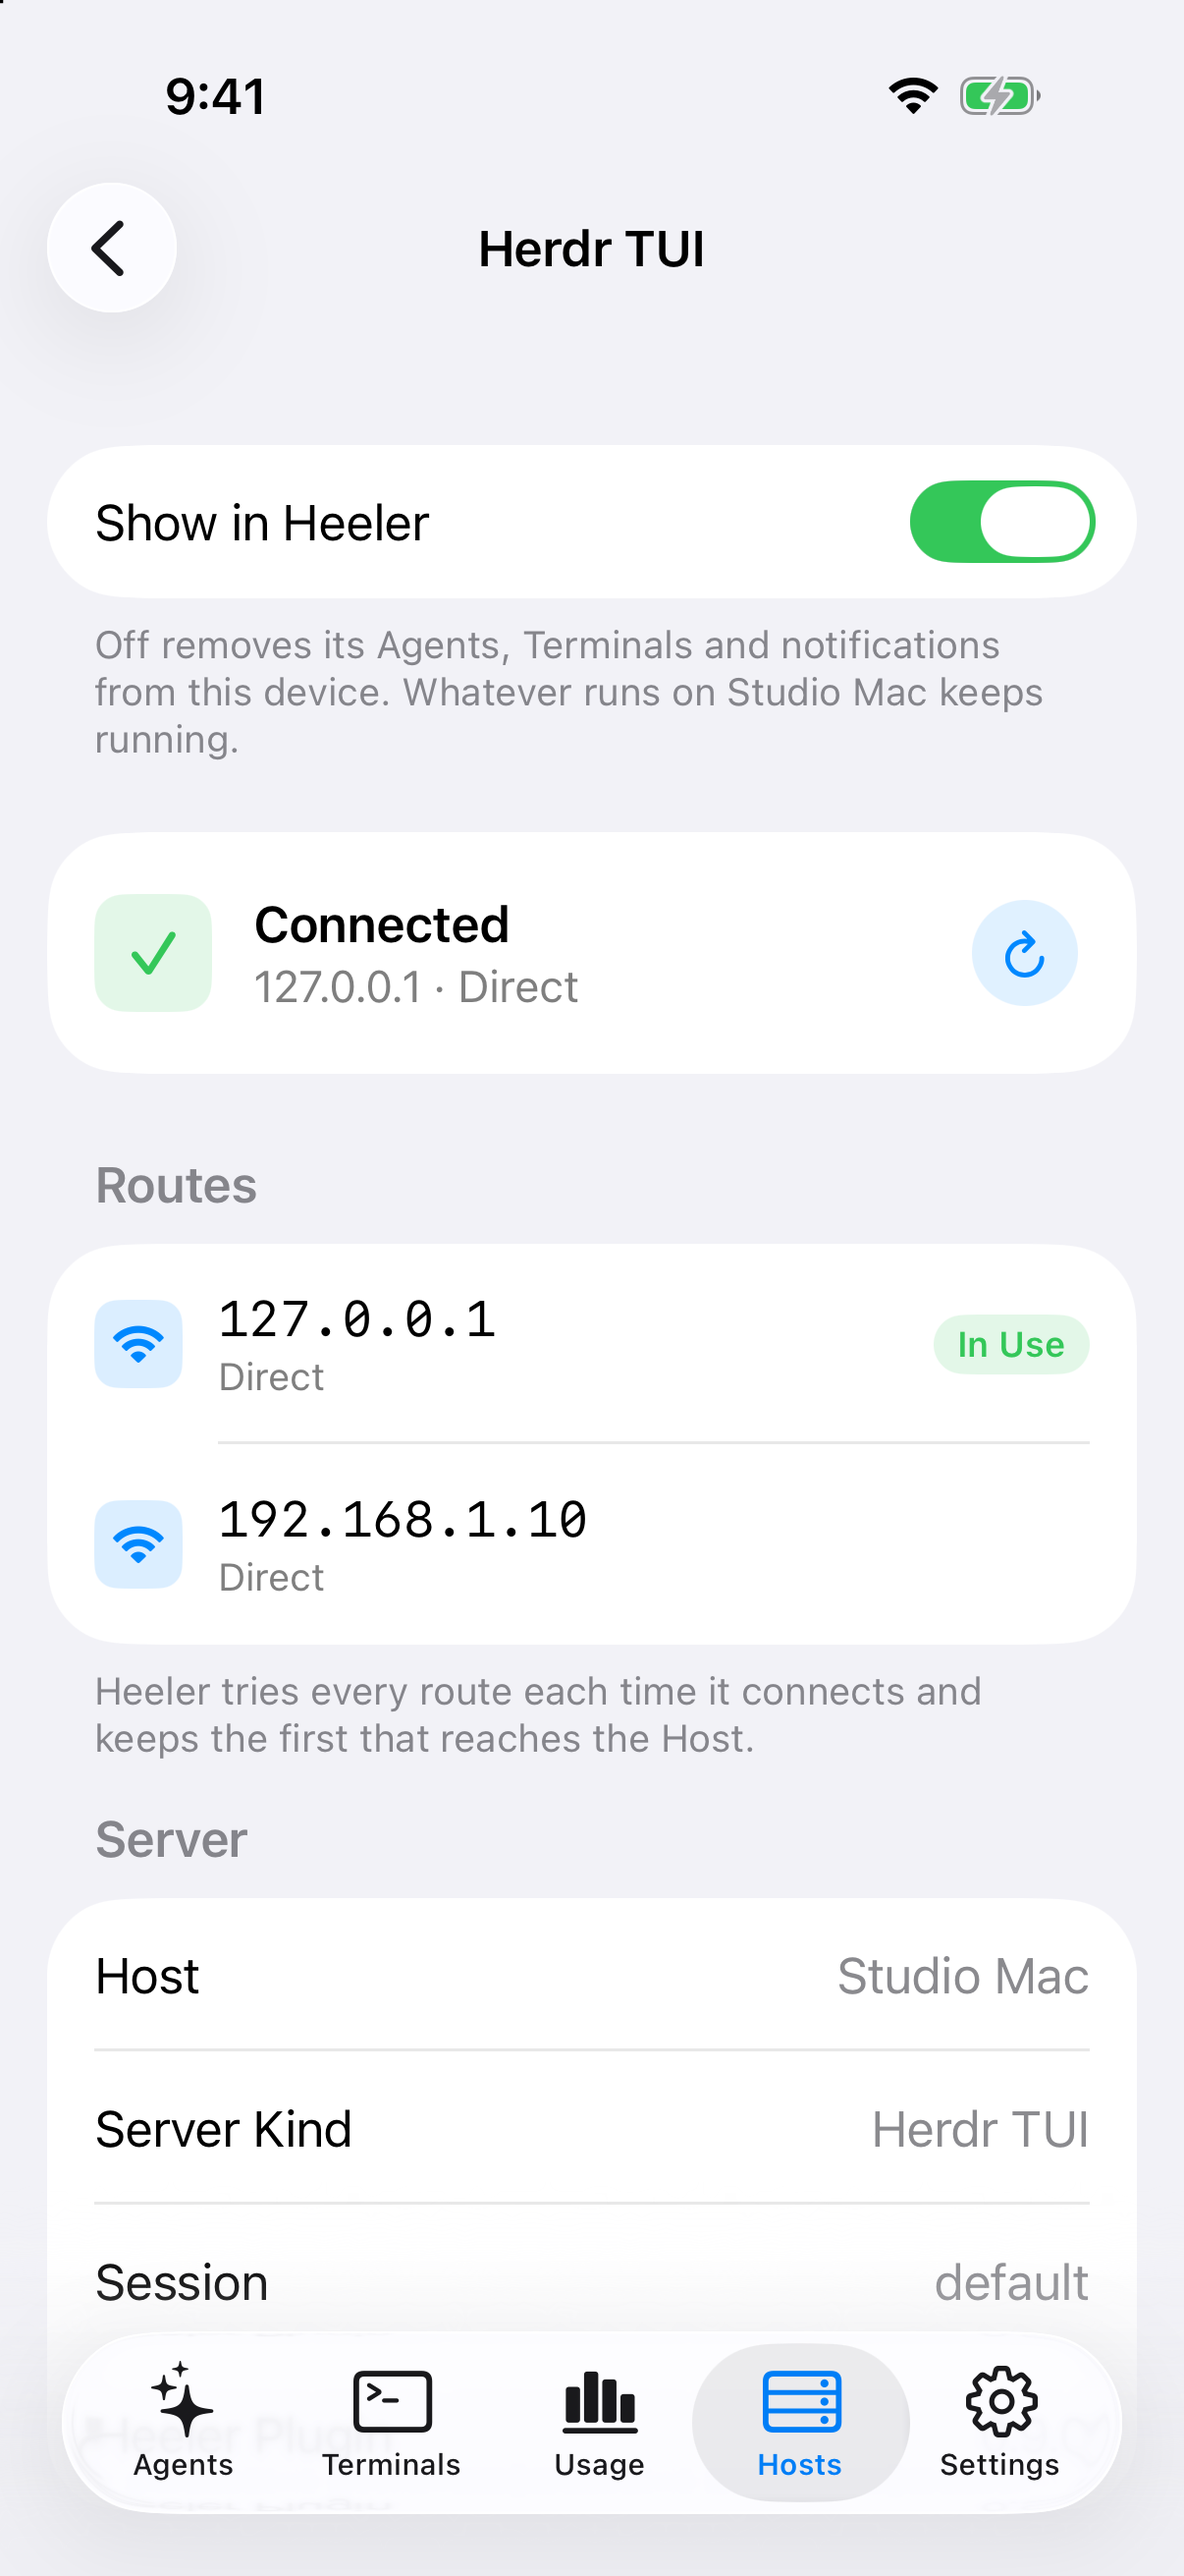
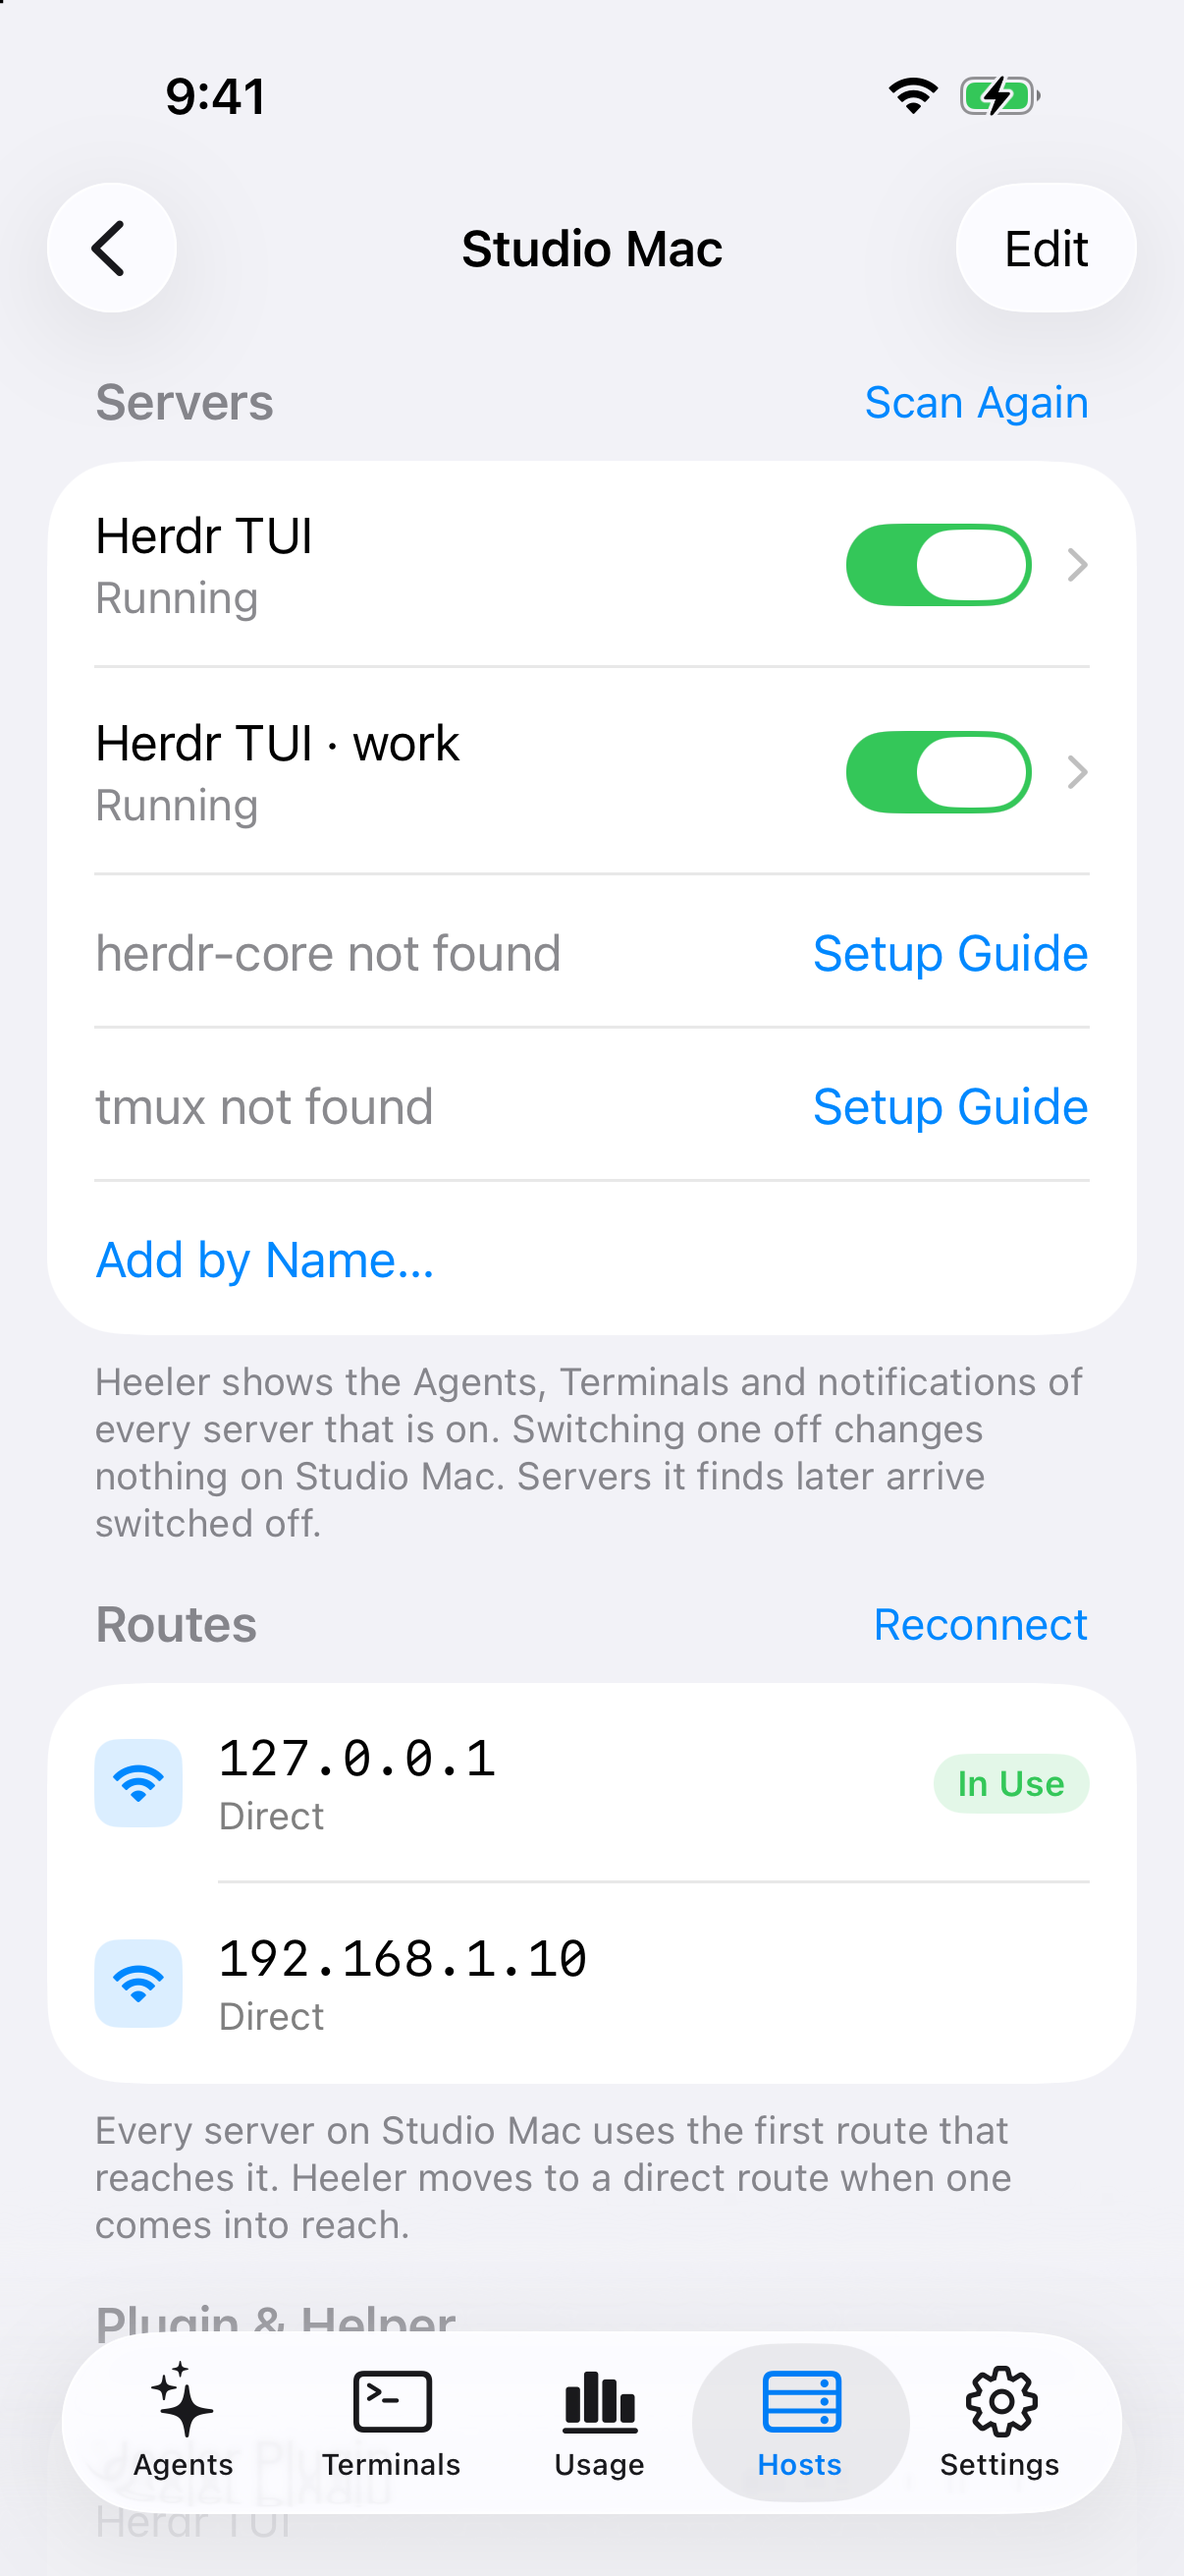
docs(guides): show a host's route on the host's page
refs #278

diff --git a/docs/guides/host-routes.md b/docs/guides/host-routes.md
@@ -19,20 +19,23 @@ Adding a Host asks for its first address on the first step, with the port, Jump 
 
 ## How Heeler picks a route
 
-- Each time it connects, Heeler races the Host's routes with staggered starts and keeps the first that reaches it.
+- Each time it connects, Heeler races the Host's routes with staggered starts and keeps the first that reaches it. Every Server on the Host uses that one route.
 - **Direct** routes without a Jump Host start first. Overlay network and Jump Host routes start a moment later, or right away once every direct route has failed. At home the LAN address can win before an overlay network ever starts.
 - The order of the list does not decide which route wins. The first route is only the address shown for the Host in the Hosts list.
-- A connection keeps its route until it ends. If you move from Wi-Fi to cellular, the next connection picks again.
+- The Host keeps its route for as long as it stays connected. If you move from Wi-Fi to cellular, it reconnects and picks again.
+- When the Host is connected through an overlay network or a Jump Host and a **Direct** route comes into reach, such as its LAN address when you get home, Heeler moves to the direct route by itself. It checks when your iPhone or iPad changes network and when you return to Heeler. If the Mac wakes up or joins the Wi-Fi only later, tap **Reconnect** to pick again.
 
 ## See which route is in use
 
-Open the Host from **Hosts** and tap one of its Servers. Each Server keeps a connection of its own, and the card under **Show in Heeler** shows it:
+Open the Host from **Hosts**. **Routes** shows how Heeler reaches it, for all of its Servers at once:
 
-- **Connected** names the route it used, and that route is marked **In Use** under **Routes**. Tap ↻ to reconnect.
-- While Heeler is connecting, tap ■ to stop trying. The Server stays paused until you tap **Reconnect**.
-- **Can't Connect** means no route reached the Host. Each route is marked **Failed** with its own reason, such as a timeout or an overlay network that isn't connected.
+- The route the Host is connected through is marked **In Use**. Tap **Reconnect** beside **Routes** to try every route again.
+- While Heeler is connecting, tap **Stop** to stop trying. The Host's Servers stay paused until you tap **Reconnect**.
+- When no route reached the Host, each route is marked **Failed** with its own reason, such as a timeout or an overlay network that isn't connected.
 
-<a href="images/hosts/routes-in-use.png"><img src="images/hosts/routes-in-use.png" width="300" alt="Herdr TUI Server page showing Connected on 127.0.0.1 Direct, with 127.0.0.1 marked In Use and 192.168.1.10 not selected under Routes"></a>
+A Server's own page holds that Server's checks, plugin and Host Helper. The connection is always shown here, on the Host's page.
+
+<a href="images/hosts/routes-in-use.png"><img src="images/hosts/routes-in-use.png" width="300" alt="Host page for Studio Mac with two Servers on and, under Routes, a Reconnect button, 127.0.0.1 marked In Use and 192.168.1.10 not in use"></a>
 
 Here the `127.0.0.1` **Direct** route is **In Use**, and the `192.168.1.10` **Direct** route is not selected. Tap the image to enlarge it.
 
@@ -46,7 +49,7 @@ Heeler confirms a Host's key once, and every route has to reach the machine with
 
 ## If a route always fails
 
-- Read its reason under **Routes** on the Server's page.
+- Read its reason under **Routes** on the Host's page.
 - For an overlay network route, check that the network shows as connected in **Settings > Overlay Networks** and that the Mac is online in it.
 - For a Jump Host route, check that you can reach the Jump Host and that it accepts the same Device Key, RSA Key, or password as the Host. See [the Jump Host guide](vps-jump-host-setup.md).
 - For a LAN address, it only answers on that network. Away from home it fails, and another route connects instead.

diff --git a/docs/guides/overlay-networks.md b/docs/guides/overlay-networks.md
@@ -93,7 +93,7 @@ To fill in the address under **More Options**, Tailscale offers **Choose from Ta
 **Connected** here means Heeler has joined the network, not that a Host is using it. Follow the checks below to verify the Host's route. Network names have been anonymized; you only need the network you chose, not all three. Tap the image to enlarge it.
 
 1. The network shows **Connected** in **Settings > Overlay Networks**.
-2. Open the Host from **Hosts**, tap one of its Servers, and check which route is marked **In Use** under **Routes**. Confirm it uses the overlay network you are testing. If another route wins, this connection does not verify the overlay route. See [which route is in use](host-routes.md#see-which-route-is-in-use).
+2. Open the Host from **Hosts** and check which route is marked **In Use** under **Routes**. Confirm it uses the overlay network you are testing. If another route wins, this connection does not verify the overlay route. See [which route is in use](host-routes.md#see-which-route-is-in-use).
 3. The Host checks pass and the session's Agents or Terminals load.
 4. In a **New Terminal**, `pwd` prints a folder on the Mac. Use a new terminal for tests, not an Agent's terminal.
 5. Turn off Wi-Fi on the phone and repeat over cellular, checking **In Use** again. Another available route, such as a Jump Host or a different overlay network, can still win.

diff --git a/docs/guides/native-windows-testing.md b/docs/guides/native-windows-testing.md
@@ -460,9 +460,10 @@ the version under test.
 9. On the Host, tap **Add by Name…**, choose **herdr-core**, and enter a name with
    a space. Below the field the sheet says Heeler cannot use that session name on
    native Windows, and **Turn On** stays off. A Host no look has yet found on
-   Windows takes the name; turned on, that Server reads **Can't Connect** and
-   **This session name can't be used**, with the same note and one closing period,
-   and Rename and Worktrees are still not offered. Not run in this sheet: the
+   Windows takes the name; turned on, the Host reads **Can't Connect** in the Hosts
+   list and that Server's row on the Host's page reads **This session name can't
+   be used**. The Server's page gives the same note, with one closing period, under
+   its checks, and Rename and Worktrees are still not offered. Not run in this sheet: the
    recheck saw the same refusal in the earlier Edit Host form, ending in one period,
    with Save off, and the state after a refused name was saved was not seen.
 10. Install an agent the launch can find, with OpenCode too if you have it. New

diff --git a/docs/guides/tmux.md b/docs/guides/tmux.md
@@ -43,7 +43,7 @@ Each Server has a switch on the Host's page. Tap a Server that is on to open its
 | --- | --- |
 | <a href="images/hosts/host-page.png"><img src="images/hosts/host-page.png" width="260" alt="Host page for Studio Mac showing Herdr TUI, herdr-core, and tmux with their switches on, Scan Again, Add by Name…, Routes, and Account"></a> | <a href="images/hosts/add-by-name.png"><img src="images/hosts/add-by-name.png" width="260" alt="Add by Name sheet with a Kind picker, a name field, and Turn On"></a> |
 
-**It worked if** the Host's row shows a green **tmux** tag, and the Server's page shows **Server Kind** as `tmux` with the version, **Socket** with your socket name, and **tmux server running** passing.
+**It worked if** the Host's row shows a green **tmux** tag, the Host's page lists tmux as **Running** with its version, and the Server's page shows **tmux server running** passing.
 
 <a href="images/hosts/hosts-list.png"><img src="images/hosts/hosts-list.png" width="300" alt="Hosts tab showing Studio Mac connected with green tags for Herdr TUI, tmux, and herdr-core"></a>
 

diff --git a/docs/guides/herdr-core.md b/docs/guides/herdr-core.md
@@ -42,7 +42,7 @@ Each Server has a switch on the Host's page. Tap a Server that is on to open its
 | --- | --- |
 | <a href="images/hosts/host-page.png"><img src="images/hosts/host-page.png" width="260" alt="Host page for Studio Mac showing Herdr TUI, herdr-core, and tmux with their switches on, Scan Again, Add by Name…, Routes, and Account"></a> | <a href="images/hosts/add-by-name.png"><img src="images/hosts/add-by-name.png" width="260" alt="Add by Name sheet with a Kind picker, a name field, and Turn On"></a> |
 
-**It worked if** the Host's row shows a green **herdr-core** tag, and the Server's page shows **Server Kind** as herdr-core with the version and **herdr-core running** passing.
+**It worked if** the Host's row shows a green **herdr-core** tag, the Host's page lists herdr-core as **Running** with its version, and the Server's page shows **herdr-core running** passing.
 
 <a href="images/hosts/hosts-list.png"><img src="images/hosts/hosts-list.png" width="300" alt="Hosts tab showing Studio Mac connected with green tags for Herdr TUI, tmux, and herdr-core"></a>
 

diff --git a/docs/guides/cloudflare-tunnel.md b/docs/guides/cloudflare-tunnel.md
@@ -121,8 +121,8 @@ connects first. See [multiple routes](host-routes.md).
 
 1. Cloudflare One Agent shows **Connected**, and the tunnel is **Healthy** in
    **Networking > Tunnels**.
-2. Open the Host from **Hosts**, tap one of its Servers, and check that the route
-   marked **In Use** is the one pointing at the Mac's private address.
+2. Open the Host from **Hosts** and check that the route marked **In Use** under
+   **Routes** is the one pointing at the Mac's private address.
 3. The Host checks pass and the session's Agents or Terminals load.
 4. In a **New Terminal**, `pwd` prints a folder on the Mac.
 5. Turn off Wi-Fi on the phone and repeat over cellular, checking **In Use**
